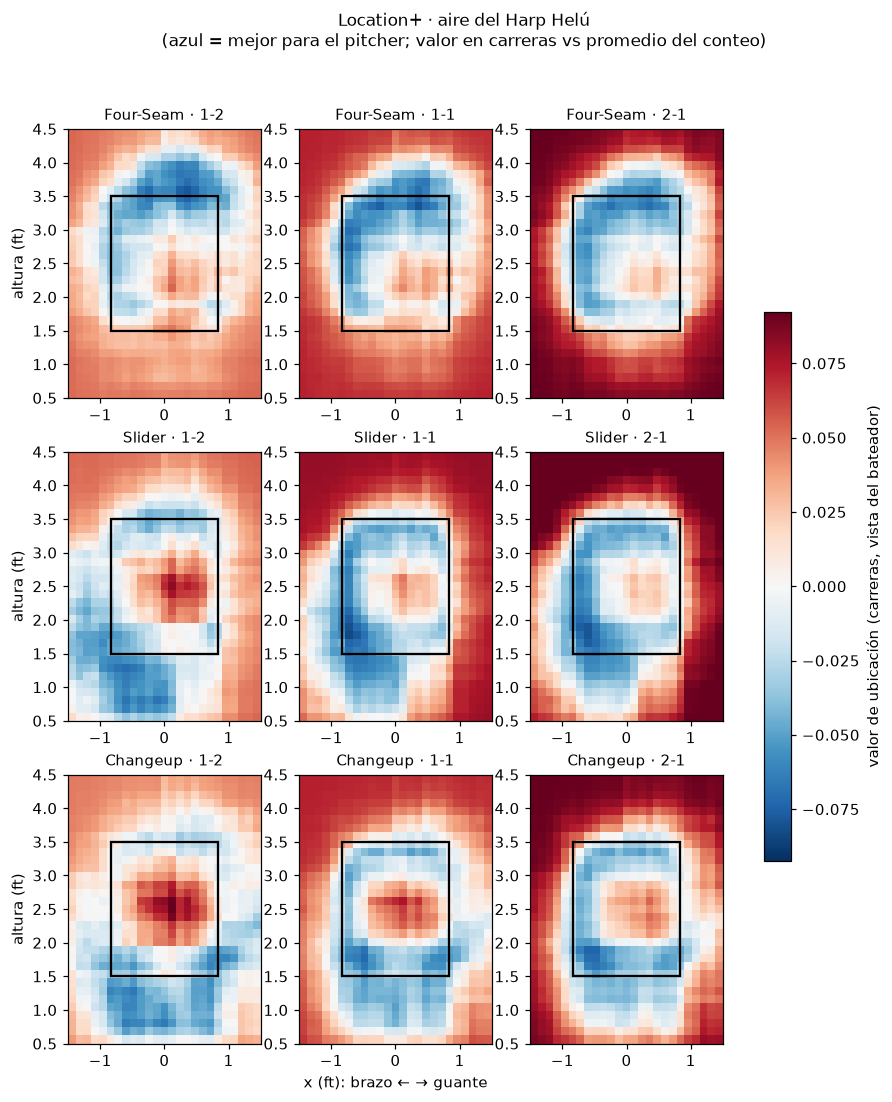
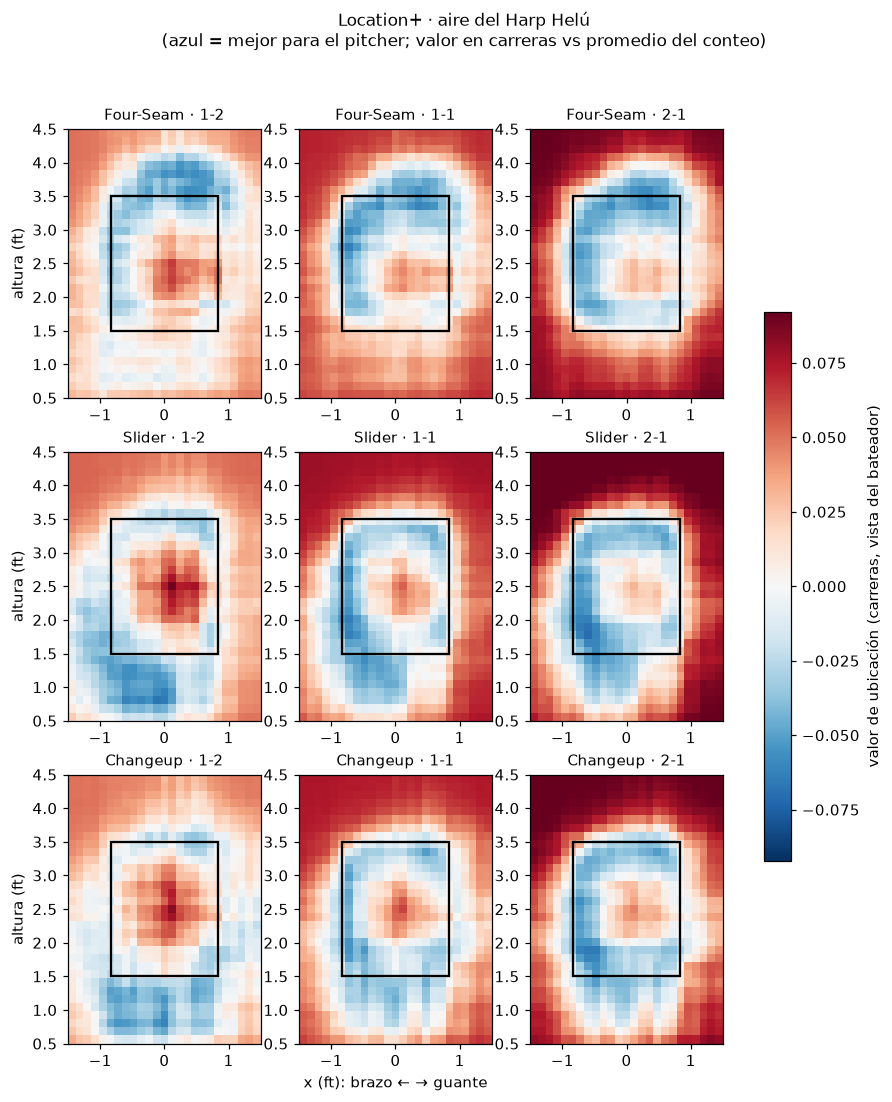
HACK-011: use altitude-invariant pitch_family (features.identity) instead of AutoPitchType; retrain and regenerate reports

diff --git a/analysis/location_model/run.py b/analysis/location_model/run.py
@@ -30,7 +30,8 @@ from stuffplus import api, config, evaluate, schema, splits  # noqa: E402
 from stuffplus.baseline import FAMILY, CountBaseline  # noqa: E402
 from stuffplus.bundle import MANIFEST, bundle_dir  # noqa: E402
 from stuffplus.models.common import BASE_PARAMS, as_model_frame  # noqa: E402
-from stuffplus.models.location import LOCATION_FEATURES, LocationModel, count_bucket, heatmap_grid, zone_label  # noqa: E402
+from stuffplus.models.location import (LOCATION_FEATURES, LocationModel, add_pitch_family, count_bucket, heatmap_grid,
+                                       zone_label)  # noqa: E402
 from stuffplus.models.stuff import split_half_reliability  # noqa: E402
 from stuffplus.scale import PlusScaler  # noqa: E402
 
@@ -50,12 +51,12 @@ def _plot_heatmaps(grid: pd.DataFrame, path: Path, title: str) -> None:
     matplotlib.use("Agg")
     import matplotlib.pyplot as plt
 
-    types, counts = list(dict.fromkeys(grid.AutoPitchType)), list(dict.fromkeys(grid["count"]))
+    types, counts = list(dict.fromkeys(grid.pitch_family)), list(dict.fromkeys(grid["count"]))
     vmax = float(np.nanquantile(np.abs(grid.loc_value), 0.98)) or 0.01
     fig, axes = plt.subplots(len(types), len(counts), figsize=(3.2 * len(counts), 3.6 * len(types)), squeeze=False)
     for i, pt in enumerate(types):
         for j, cnt in enumerate(counts):
-            g = grid[(grid.AutoPitchType == pt) & (grid["count"] == cnt)]
+            g = grid[(grid.pitch_family == pt) & (grid["count"] == cnt)]
             piv = g.pivot_table(index="PlateLocHeight", columns="plate_x_arm", values="loc_value")
             ax = axes[i][j]
             im = ax.imshow(piv.to_numpy(), origin="lower", cmap="RdBu_r", vmin=-vmax, vmax=vmax,
@@ -94,6 +95,7 @@ def _update_bundle(model: LocationModel, frame: pd.DataFrame, loc_value: np.ndar
 
 def train(frame: pd.DataFrame, fast: bool = False, out_dir: Path | None = None, write_reports: bool = True) -> dict:
     rounds = dict(class_rounds=60, contact_rounds=40) if fast else {}
+    frame = add_pitch_family(frame)
     folds = list(splits.pitcher_group_kfold(frame))
     oof = LocationModel(**rounds).oof(frame, folds)
     frame = frame.assign(xrv_loc_oof=oof["xrv"].to_numpy(float), loc_value_oof=oof["loc_value"].to_numpy(float))
@@ -101,11 +103,13 @@ def train(frame: pd.DataFrame, fast: bool = False, out_dir: Path | None = None, 
     metrics = evaluate.compare({"baseline": base, "location_v1": frame.xrv_loc_oof}, frame.rv_x,
                                groups=frame.pitcher_anon_id, n_boot=100 if fast else 300).assign(baseline_name="mean xRV by count")
     comp = _stuff_run()._component_metrics(frame, oof, folds)
-    rel = pd.DataFrame([split_half_reliability(frame, "loc_value_oof", obs_col="rv_x", min_n=30 if fast else 150)])
+    rel = pd.DataFrame([split_half_reliability(frame, "loc_value_oof", obs_col="rv_x", min_n=30 if fast else 150)]
+                       ).rename(columns={"stuff_model": "location_model"})
+    rel["pitch_family_assigned_share"] = float(frame["pitch_family_assigned"].mean())
 
     frame = frame.assign(zone=zone_label(frame), count_bucket=count_bucket(frame),
-                         pitch_family=frame.AutoPitchType.astype(str).map(FAMILY))
-    zones = (frame.groupby(["pitch_family", "count_bucket", "zone"], observed=True)
+                         family_group=frame.pitch_family.astype(str).map(FAMILY))
+    zones = (frame.groupby(["family_group", "count_bucket", "zone"], observed=True)
              .agg(pitches=("rv_x", "size"), location_value=("loc_value_oof", "mean"), observed_rv_x=("rv_x", "mean"))
              .reset_index())
     zones = zones[zones.pitches >= (5 if fast else 200)]
@@ -117,8 +121,8 @@ def train(frame: pd.DataFrame, fast: bool = False, out_dir: Path | None = None, 
                         zs=np.round(np.arange(0.5, 4.51, step), 3))
     g = grid.assign(zone=zone_label(grid))
     alt = (g.assign(air=np.where(g.rho == 1.0, "sea_level", "harp_helu"))
-           .pivot_table(index=["AutoPitchType", "zone"], columns="air", values="loc_value", aggfunc="mean")
-           .reset_index().rename(columns={"AutoPitchType": "pitch_type"}))
+           .pivot_table(index=["pitch_family", "zone"], columns="air", values="loc_value", aggfunc="mean")
+           .reset_index())
     alt["delta_cdmx"] = alt["harp_helu"] - alt["sea_level"]
 
     r2 = float("nan")

diff --git a/stuffplus/models/location.py b/stuffplus/models/location.py
@@ -1,7 +1,8 @@
 """Location+ model: the marginal value of where a pitch was thrown (HACK-011).
 
-Inputs are ONLY location and situation: plate location (arm-side mirrored), count, batter side, pitch type and
-air density; no pitch physics. Same component design as Stuff+ (``models.stuff``):
+Inputs are ONLY location and situation: plate location (arm-side mirrored), count, batter side, the
+altitude-invariant pitch family (``features.identity``; Trackman's AutoPitchType relabels pitches with air
+density, so it is never used here) and air density; no pitch physics. Same component design as Stuff+ (``models.stuff``):
 ``xRV_loc = Σ P(outcome | location, count, …) · V(outcome)`` with contact value from a regression on balls in play.
 
 Location value = ``xRV_loc − mean xRV_loc for that count and pitch type``, so a 3-0 count is not blamed on the
@@ -20,11 +21,26 @@ from stuffplus.models.common import BASE_PARAMS, as_model_frame
 from stuffplus.models.stuff import OUTCOMES, StuffModel, outcome_class
 from stuffplus.schema import assert_no_target_leak
 
-LOCATION_FEATURES = ["plate_x_arm", "PlateLocHeight", "Balls", "Strikes", "same_side", "is_rhp", "AutoPitchType", "rho"]
+LOCATION_FEATURES = ["plate_x_arm", "PlateLocHeight", "Balls", "Strikes", "same_side", "is_rhp", "pitch_family", "rho"]
 ZONE_X = 0.83  # half plate (8.5 in) + ball radius, ft
 ZONE_Z = (1.5, 3.5)  # league-average vertical zone, ft
 CLASS_PARAMS = {"learning_rate": 0.08, "num_leaves": 127, "min_data_in_leaf": 300}
 COUNT_BUCKETS = {"ahead": ("0-1", "0-2", "1-2"), "even": ("0-0", "1-1", "2-2"), "behind": ("1-0", "2-0", "2-1", "3-0", "3-1", "3-2")}
+
+
+def add_pitch_family(df: pd.DataFrame) -> pd.DataFrame:
+    """Add the altitude-invariant ``pitch_family`` (per pitcher-season mixture fitted on sea-level games).
+
+    Pitches the mixture leaves unassigned keep their AutoPitchType (a small share; reported by the caller).
+    """
+    from stuffplus.features.identity import assign_pitch_id
+
+    out = df if "pitch_family" in df and "pitch_id" in df else assign_pitch_id(df)
+    fam = out["pitch_family"].astype(object)
+    out = out.copy()
+    out["pitch_family_assigned"] = fam.notna()
+    out["pitch_family"] = fam.where(fam.notna(), out["AutoPitchType"].astype(str)).astype(str)
+    return out
 
 
 def zone_label(df: pd.DataFrame) -> pd.Series:
@@ -74,7 +90,7 @@ class LocationModel(StuffModel):
 
     @staticmethod
     def _key(df: pd.DataFrame) -> pd.Series:
-        return df["count"].astype(str) + "|" + df["AutoPitchType"].astype(str)
+        return df["count"].astype(str) + "|" + df["pitch_family"].astype(str)
 
     def _reference(self, df: pd.DataFrame, xrv: np.ndarray) -> pd.Series:
         return pd.Series(xrv, index=df.index).groupby(self._key(df)).mean()
@@ -101,7 +117,7 @@ def heatmap_grid(
     counts: Sequence[str] = ("1-2", "1-1", "2-1"), rhos: Sequence[float] = (1.0,),
     xs: np.ndarray | None = None, zs: np.ndarray | None = None,
 ) -> pd.DataFrame:
-    """Location value on a plate grid (RHP vs RHB, arm-side x) for each pitch type × count × air density."""
+    """Location value on a plate grid (RHP vs RHB, arm-side x) for each pitch family × count × air density."""
     xs = np.round(np.arange(-1.5, 1.51, 0.125), 3) if xs is None else xs
     zs = np.round(np.arange(0.5, 4.51, 0.125), 3) if zs is None else zs
     gx, gz = np.meshgrid(xs, zs)
@@ -112,7 +128,7 @@ def heatmap_grid(
             for rho in rhos:
                 frames.append(pd.DataFrame({
                     "plate_x_arm": gx.ravel(), "PlateLocHeight": gz.ravel(), "Balls": b, "Strikes": s, "count": cnt,
-                    "same_side": 1, "is_rhp": 1, "AutoPitchType": pt, "rho": rho}))
+                    "same_side": 1, "is_rhp": 1, "pitch_family": pt, "rho": rho}))
     grid = pd.concat(frames, ignore_index=True)
     grid["loc_value"] = model.location_value(grid)
-    return grid[["AutoPitchType", "count", "rho", "plate_x_arm", "PlateLocHeight", "loc_value"]]
+    return grid[["pitch_family", "count", "rho", "plate_x_arm", "PlateLocHeight", "loc_value"]]

diff --git a/tests/test_model_location.py b/tests/test_model_location.py
@@ -27,7 +27,7 @@ def _load(rel):
 def setup(tmp_path_factory, _synthetic_cache):
     stuff_run = _load("analysis/stuff_model/run.py")
     loc_run = _load("analysis/location_model/run.py")
-    frame = stuff_run.prepare(schema.clean(_synthetic_cache.copy()))
+    frame = location.add_pitch_family(stuff_run.prepare(schema.clean(_synthetic_cache.copy())))
     bundle = tmp_path_factory.mktemp("bundle_loc")
     stuff_run.train(frame, bundle, fast=True, write_reports=False)
     res = loc_run.train(frame, fast=True, out_dir=bundle, write_reports=False)
@@ -48,7 +48,7 @@ def test_location_value_is_centered_by_count_and_type(setup):
     frame, res, _ = setup
     m = res["model"]
     lv = pd.Series(m.location_value(frame), index=frame.index)
-    by_cell = lv.groupby([frame["count"].astype(str), frame.AutoPitchType.astype(str)]).mean()
+    by_cell = lv.groupby([frame["count"].astype(str), frame.pitch_family.astype(str)]).mean()
     assert by_cell.abs().max() < 1e-9
 
 
@@ -59,16 +59,21 @@ def test_location_features_exclude_physics():
 def test_heatmap_grid_and_middle_vs_edge(setup):
     _, res, _ = setup
     grid = res["grid"]
-    assert {"AutoPitchType", "count", "rho", "plate_x_arm", "PlateLocHeight", "loc_value"} <= set(grid.columns)
+    assert {"pitch_family", "count", "rho", "plate_x_arm", "PlateLocHeight", "loc_value"} <= set(grid.columns)
     assert grid.loc_value.notna().all() and set(grid.rho.round(3)) == {1.0, round(api.resolve_rho("harp_helu"), 3)}
 
 
 def test_reports_tables(setup):
     _, res, _ = setup
     assert set(res["metrics"].model) == {"baseline", "location_v1"}
-    assert {"pitch_family", "count_bucket", "zone", "location_value", "observed_rv_x"} <= set(res["zones"].columns)
-    assert {"pitch_type", "zone", "sea_level", "harp_helu", "delta_cdmx"} <= set(res["altitude"].columns)
+    assert {"family_group", "count_bucket", "zone", "location_value", "observed_rv_x"} <= set(res["zones"].columns)
+    assert {"pitch_family", "zone", "sea_level", "harp_helu", "delta_cdmx"} <= set(res["altitude"].columns)
+    assert "location_model" in res["reliability"].columns
     assert "PitchUID" not in res["zones"].columns
+
+
+def test_location_never_uses_trackman_labels():
+    assert "AutoPitchType" not in location.LOCATION_FEATURES
 
 
 def test_bundle_location_model_replaced_and_served(setup, monkeypatch):

diff --git a/stuffplus/models/common.py b/stuffplus/models/common.py
@@ -45,8 +45,9 @@ def add_arm_side_features(df: pd.DataFrame) -> pd.DataFrame:
 def as_model_frame(df: pd.DataFrame, features: Sequence[str]) -> pd.DataFrame:
     """Feature matrix with fixed categorical levels (so saved models and single-row inputs agree)."""
     X = df[list(features)].copy()
-    if "AutoPitchType" in X:
-        X["AutoPitchType"] = pd.Categorical(X["AutoPitchType"].astype(str), categories=PITCH_TYPES)
+    for c in ("AutoPitchType", "pitch_family"):  # pitch_family = altitude-invariant label (features.identity)
+        if c in X:
+            X[c] = pd.Categorical(X[c].astype(str), categories=PITCH_TYPES)
     for c in X.columns:
         if X[c].dtype == bool:
             X[c] = X[c].astype(int)

diff --git a/stuffplus/serving.py b/stuffplus/serving.py
@@ -111,7 +111,7 @@ def predict_frame(
 def _row_from_input(p) -> pd.DataFrame:
     sign = 1.0 if p.throws == "Right" else -1.0
     row = {
-        "AutoPitchType": p.pitch_type, "PitcherThrows": p.throws, "is_rhp": int(p.throws == "Right"),
+        "AutoPitchType": p.pitch_type, "pitch_family": p.pitch_type, "PitcherThrows": p.throws, "is_rhp": int(p.throws == "Right"),
         "RelSpeed": p.velo, "SpinRate": p.spin_rate, "SpinAxis": p.spin_axis,
         "spin_axis_arm": p.spin_axis % 360 if sign > 0 else (360 - p.spin_axis) % 360,
         "InducedVertBreak": p.ivb, "HorzBreak": p.hb, "hb_arm": p.hb * sign,

diff --git a/analysis/location_model/README.md b/analysis/location_model/README.md
@@ -3,25 +3,26 @@
 `python analysis/location_model/run.py` (run after `analysis/stuff_model/run.py`; ~4 min) validates Location+, writes
 `reports/location_model/` and replaces the bundle's location model.
 
-**Definition.** Inputs: plate location (arm-side mirrored), count, batter side, pitch type and air density; no pitch
-physics. xRV_loc = Σ P(outcome | location, count, …) · LMB value of the outcome (+ contact value in play).
-Location value = xRV_loc − league mean for the same count and pitch type, so the count is neither blamed nor
-credited. Location+ = 100 + 10·z(−location value).
+**Definition.** Inputs: plate location (arm-side mirrored), count, batter side, the altitude-invariant
+`pitch_family` (`features.identity`, 99.3 % of pitches assigned; Trackman's AutoPitchType relabels pitches with
+air density and is never used) and air density; no pitch physics. xRV_loc = Σ P(outcome | location, count, …) ·
+LMB value of the outcome (+ contact value in play). Location value = xRV_loc − league mean for the same count and
+pitch family, so the count is neither blamed nor credited. Location+ = 100 + 10·z(−location value).
 
 ## Results (real data, 2026-10-13, OOF by pitcher)
 
 | Test | Result | File |
 |---|---|---|
-| Per-pitch RMSE skill vs mean xRV by count (rubric's null) | **+2.9 % [2.82, 2.98]** | `metrics.csv` |
-| 5-outcome log-loss | 1.028 vs 1.451 count baseline vs 1.516 prior | `component_metrics.csv` |
-| Split-half reliability of pitcher-season Location+ | 0.57 (observed rv_x: 0.25) | `reliability.csv` |
+| Per-pitch RMSE skill vs mean xRV by count (rubric's null) | **+2.78 % [2.70, 2.87]** | `metrics.csv` |
+| 5-outcome log-loss | 1.041 vs 1.451 count baseline vs 1.516 prior | `component_metrics.csv` |
+| Split-half reliability of pitcher-season Location+ | 0.58 (observed rv_x: 0.25) | `reliability.csv` |
 
 ## Altitude × location (`altitude_by_zone.csv`, model-based, + = worse for the pitcher in Harp Helú air)
-- The heart of the zone (zone 5) costs more in CDMX for every pitch type (four-seam +0.011, slider +0.011,
-  changeup +0.037 runs/pitch).
-- **Low four-seamers lose more than high ones** (zones 7–8 ≈ +0.018–0.020 vs zones 1–3 ≈ 0): the "don't elevate in
-  altitude" intuition is not what the data says; elevated fastballs keep their value, low ones get punished.
-- Changeups get worse almost everywhere; only low glove side (zone 9) holds up.
+- Every zone costs more in CDMX air; **the heart of the zone costs most** (zone 5: four-seam +0.025, slider +0.019
+  runs/pitch).
+- **Low four-seamers lose more than high ones** (zones 7–8 +0.018/+0.021 vs zones 1–3 +0.012/+0.014). With
+  AutoPitchType (first version) this gap looked twice as large: part of it was Trackman relabelling, not location.
+- Changeups lose everywhere; low glove side (zone 9) holds up best (+0.006).
 Caveat: ρ is game-level, so this mixes air with park; HACK-015 checks it within pitcher.
 
 Heatmaps: `heatmap_sea_level.png`, `heatmap_harp_helu.png` (blue = better for the pitcher).
